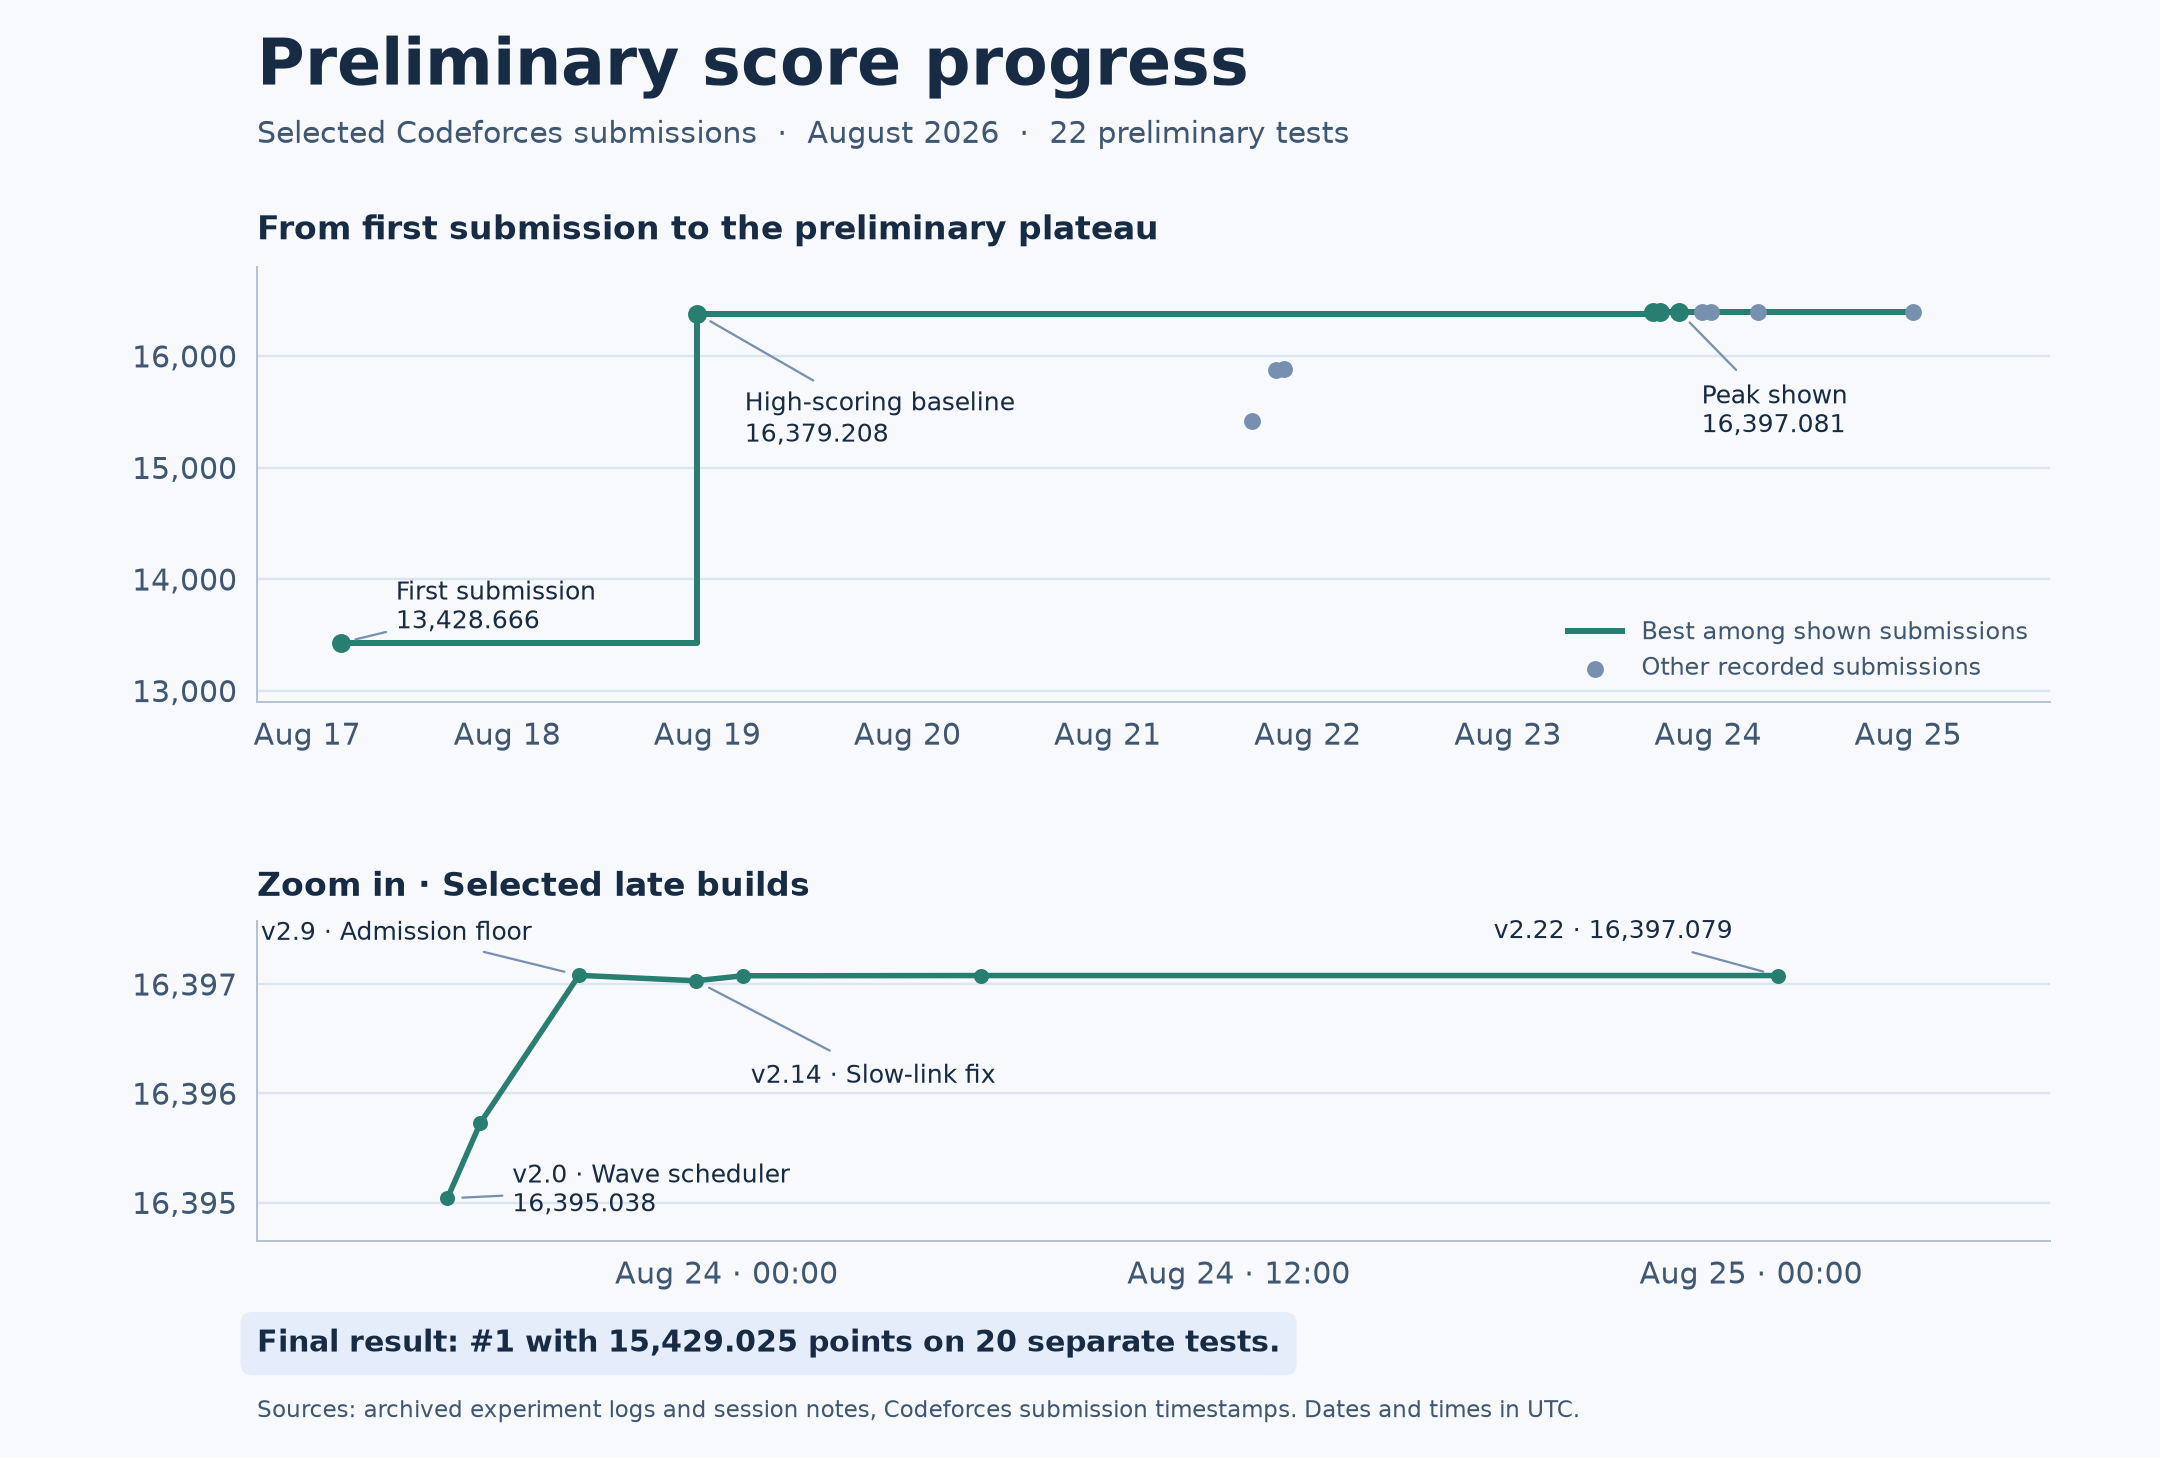
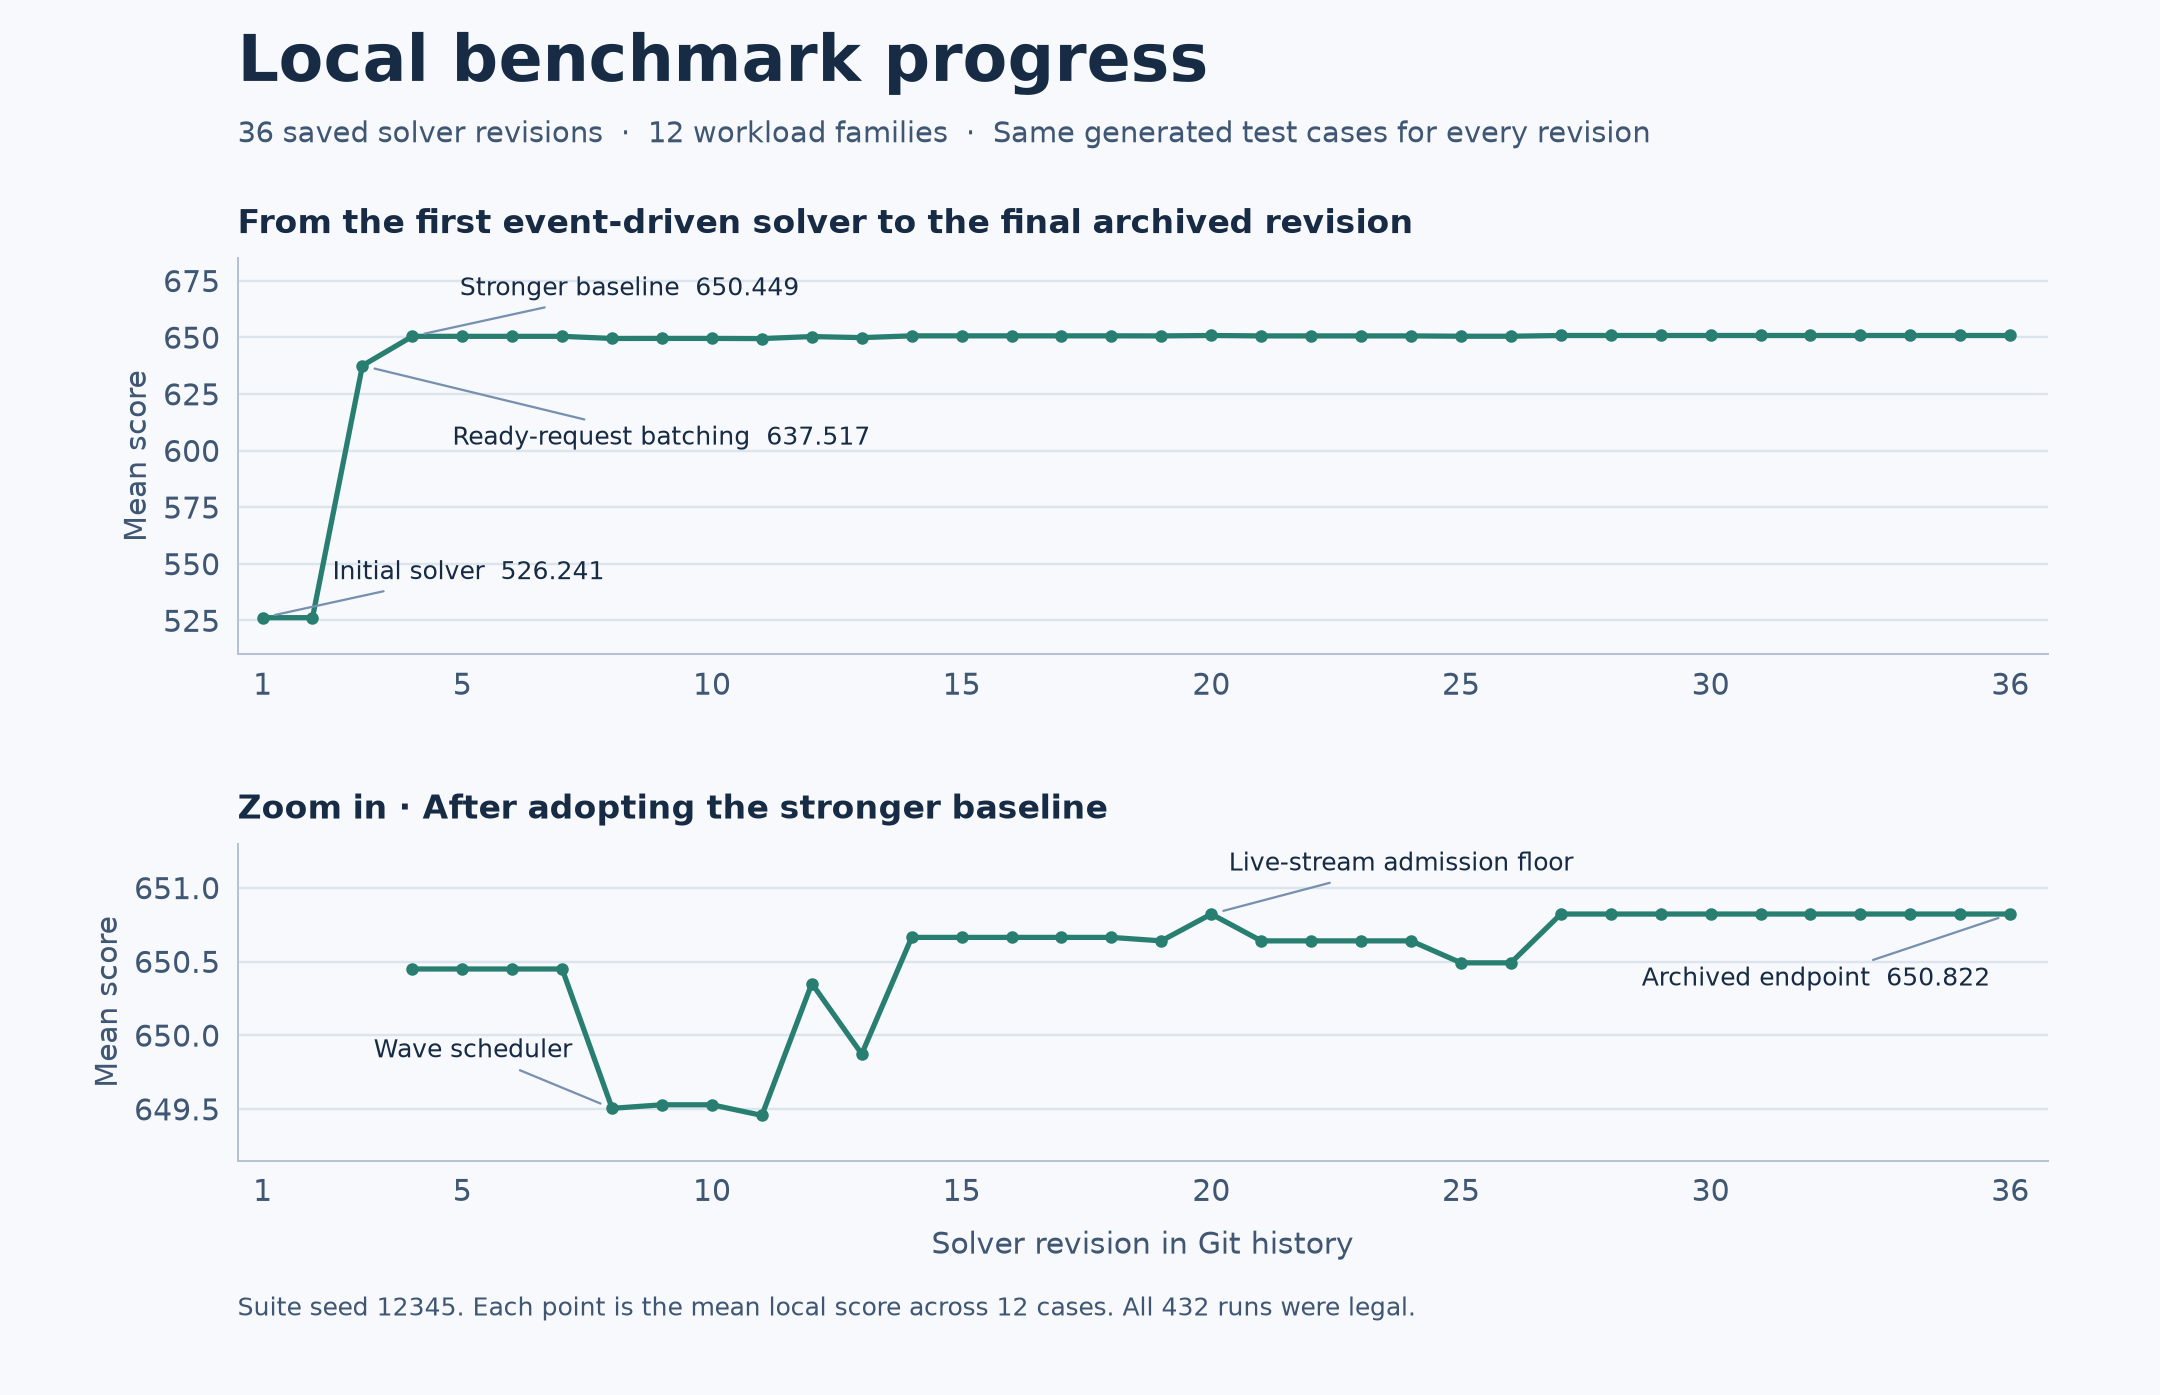
Plot solver progress on the local benchmark

diff --git a/README.md b/README.md
@@ -10,10 +10,11 @@ has yet to be verified against this snapshot.
 
 ## Contest progress
 
-![Preliminary Codeforces scores across selected submissions, from 13,428.666 to 16,397.081](docs/progress.png)
+![Local benchmark scores for 36 solver revisions on the same 12 generated tests](docs/progress.png)
 
-The chart tracks selected submissions on the 22 preliminary tests. The final
-submission placed first with 15,429.025 points on a separate set of 20 tests.
+We reran 36 distinct solver snapshots in Git history order on the same local
+suite (seed `12345`, one case per workload family). Each point is the mean
+score across the 12 cases. All 432 runs were legal.
 
 ## Run locally
 
